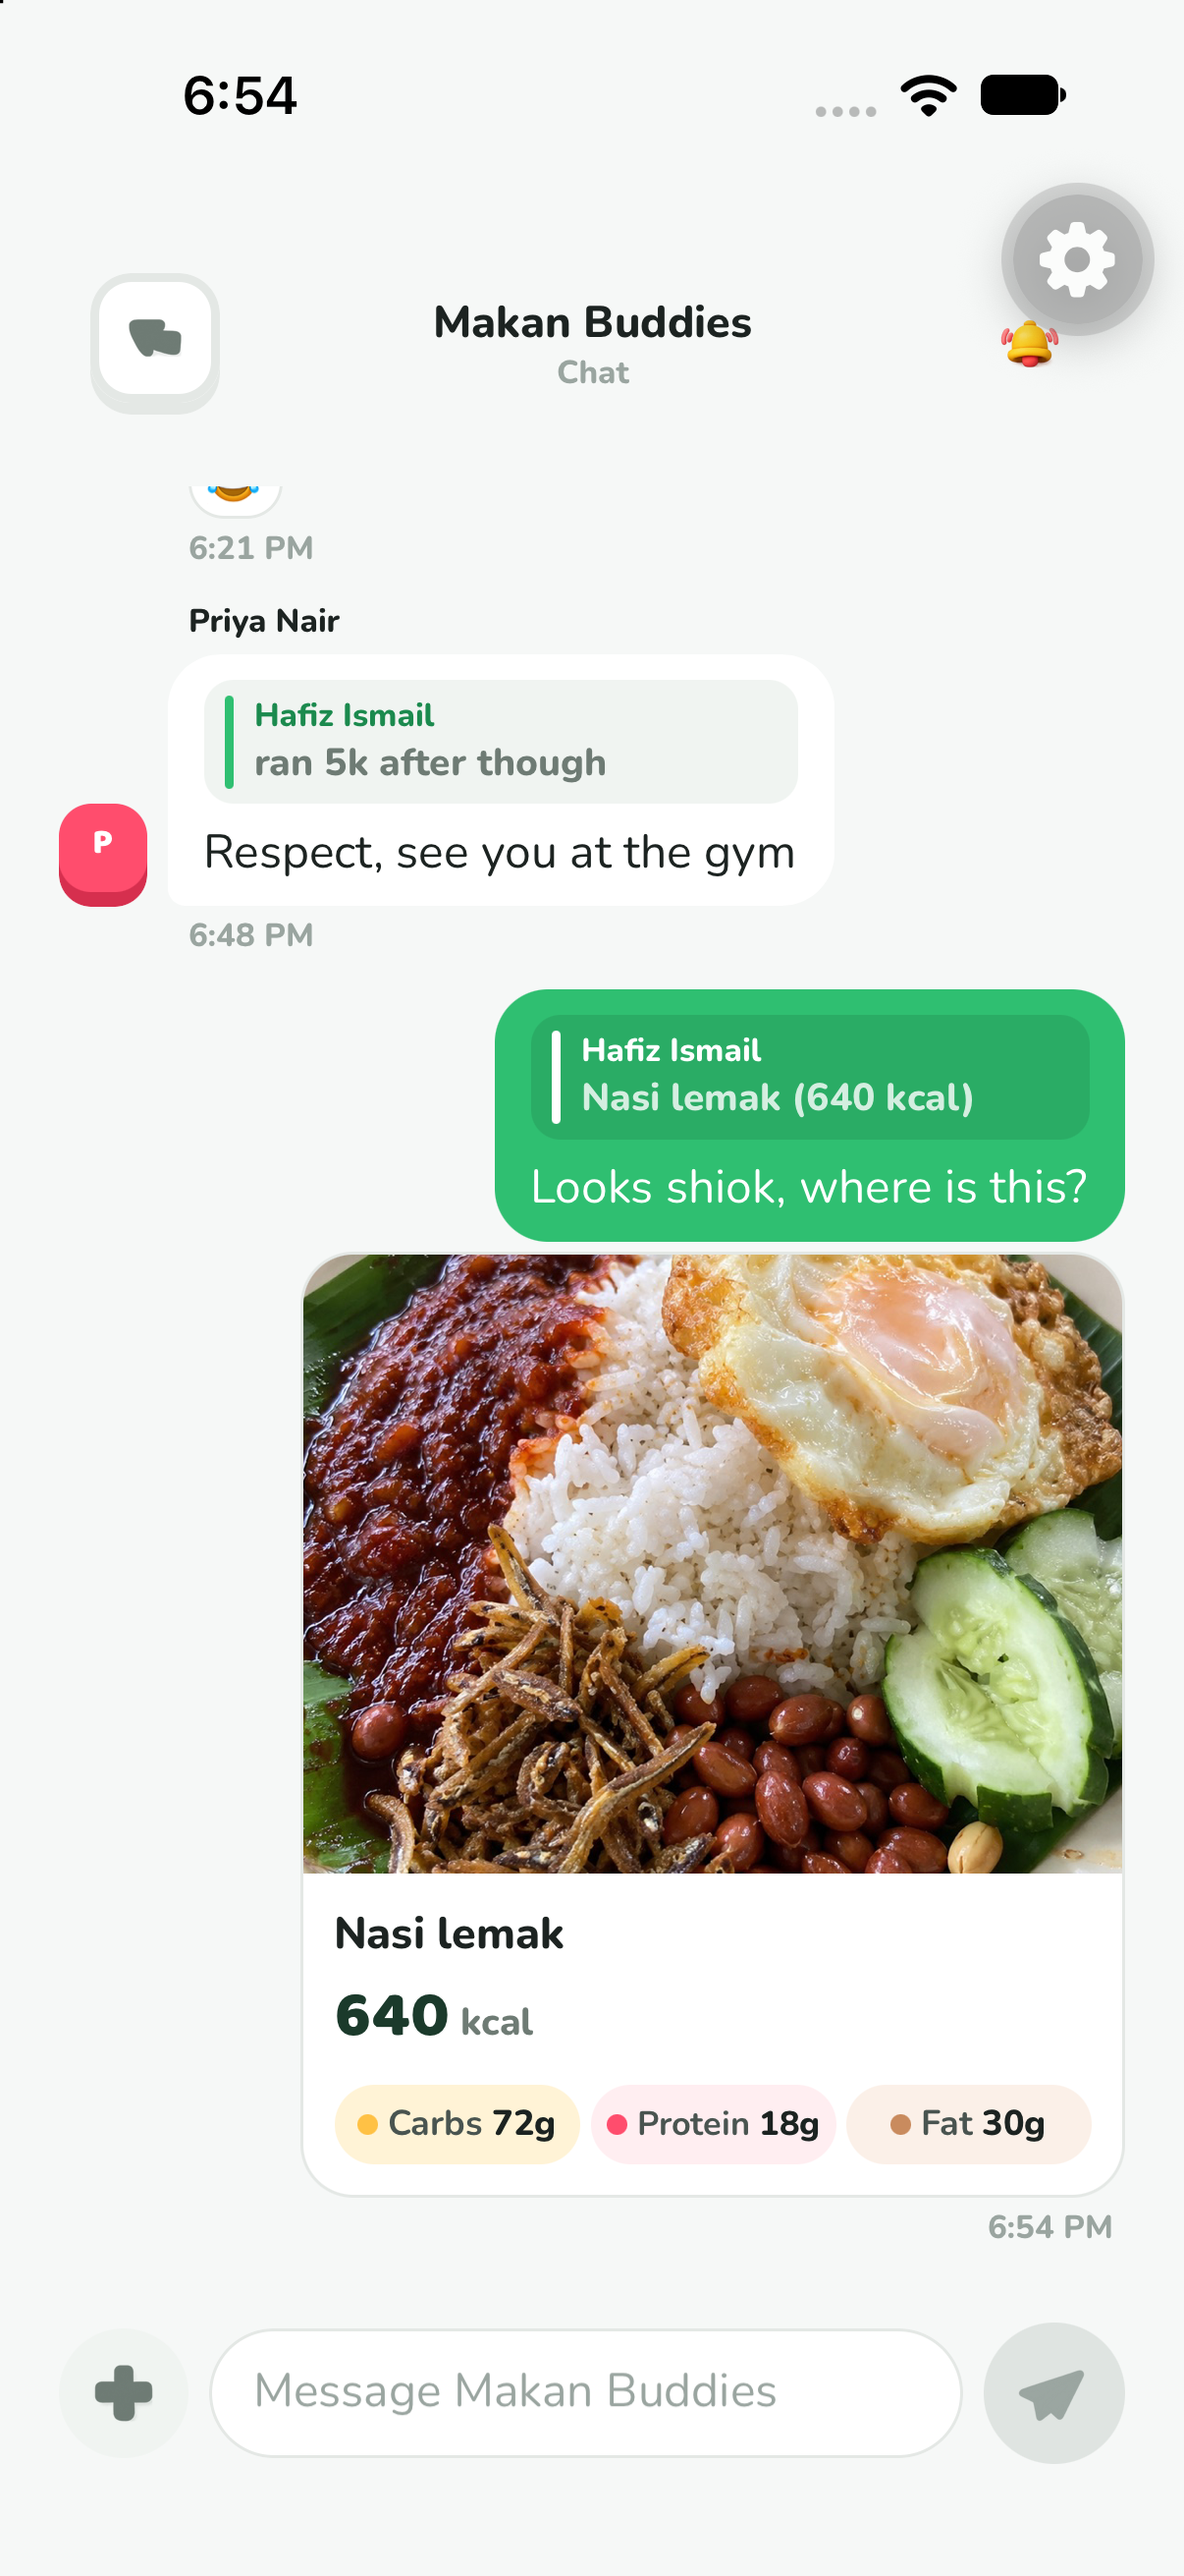
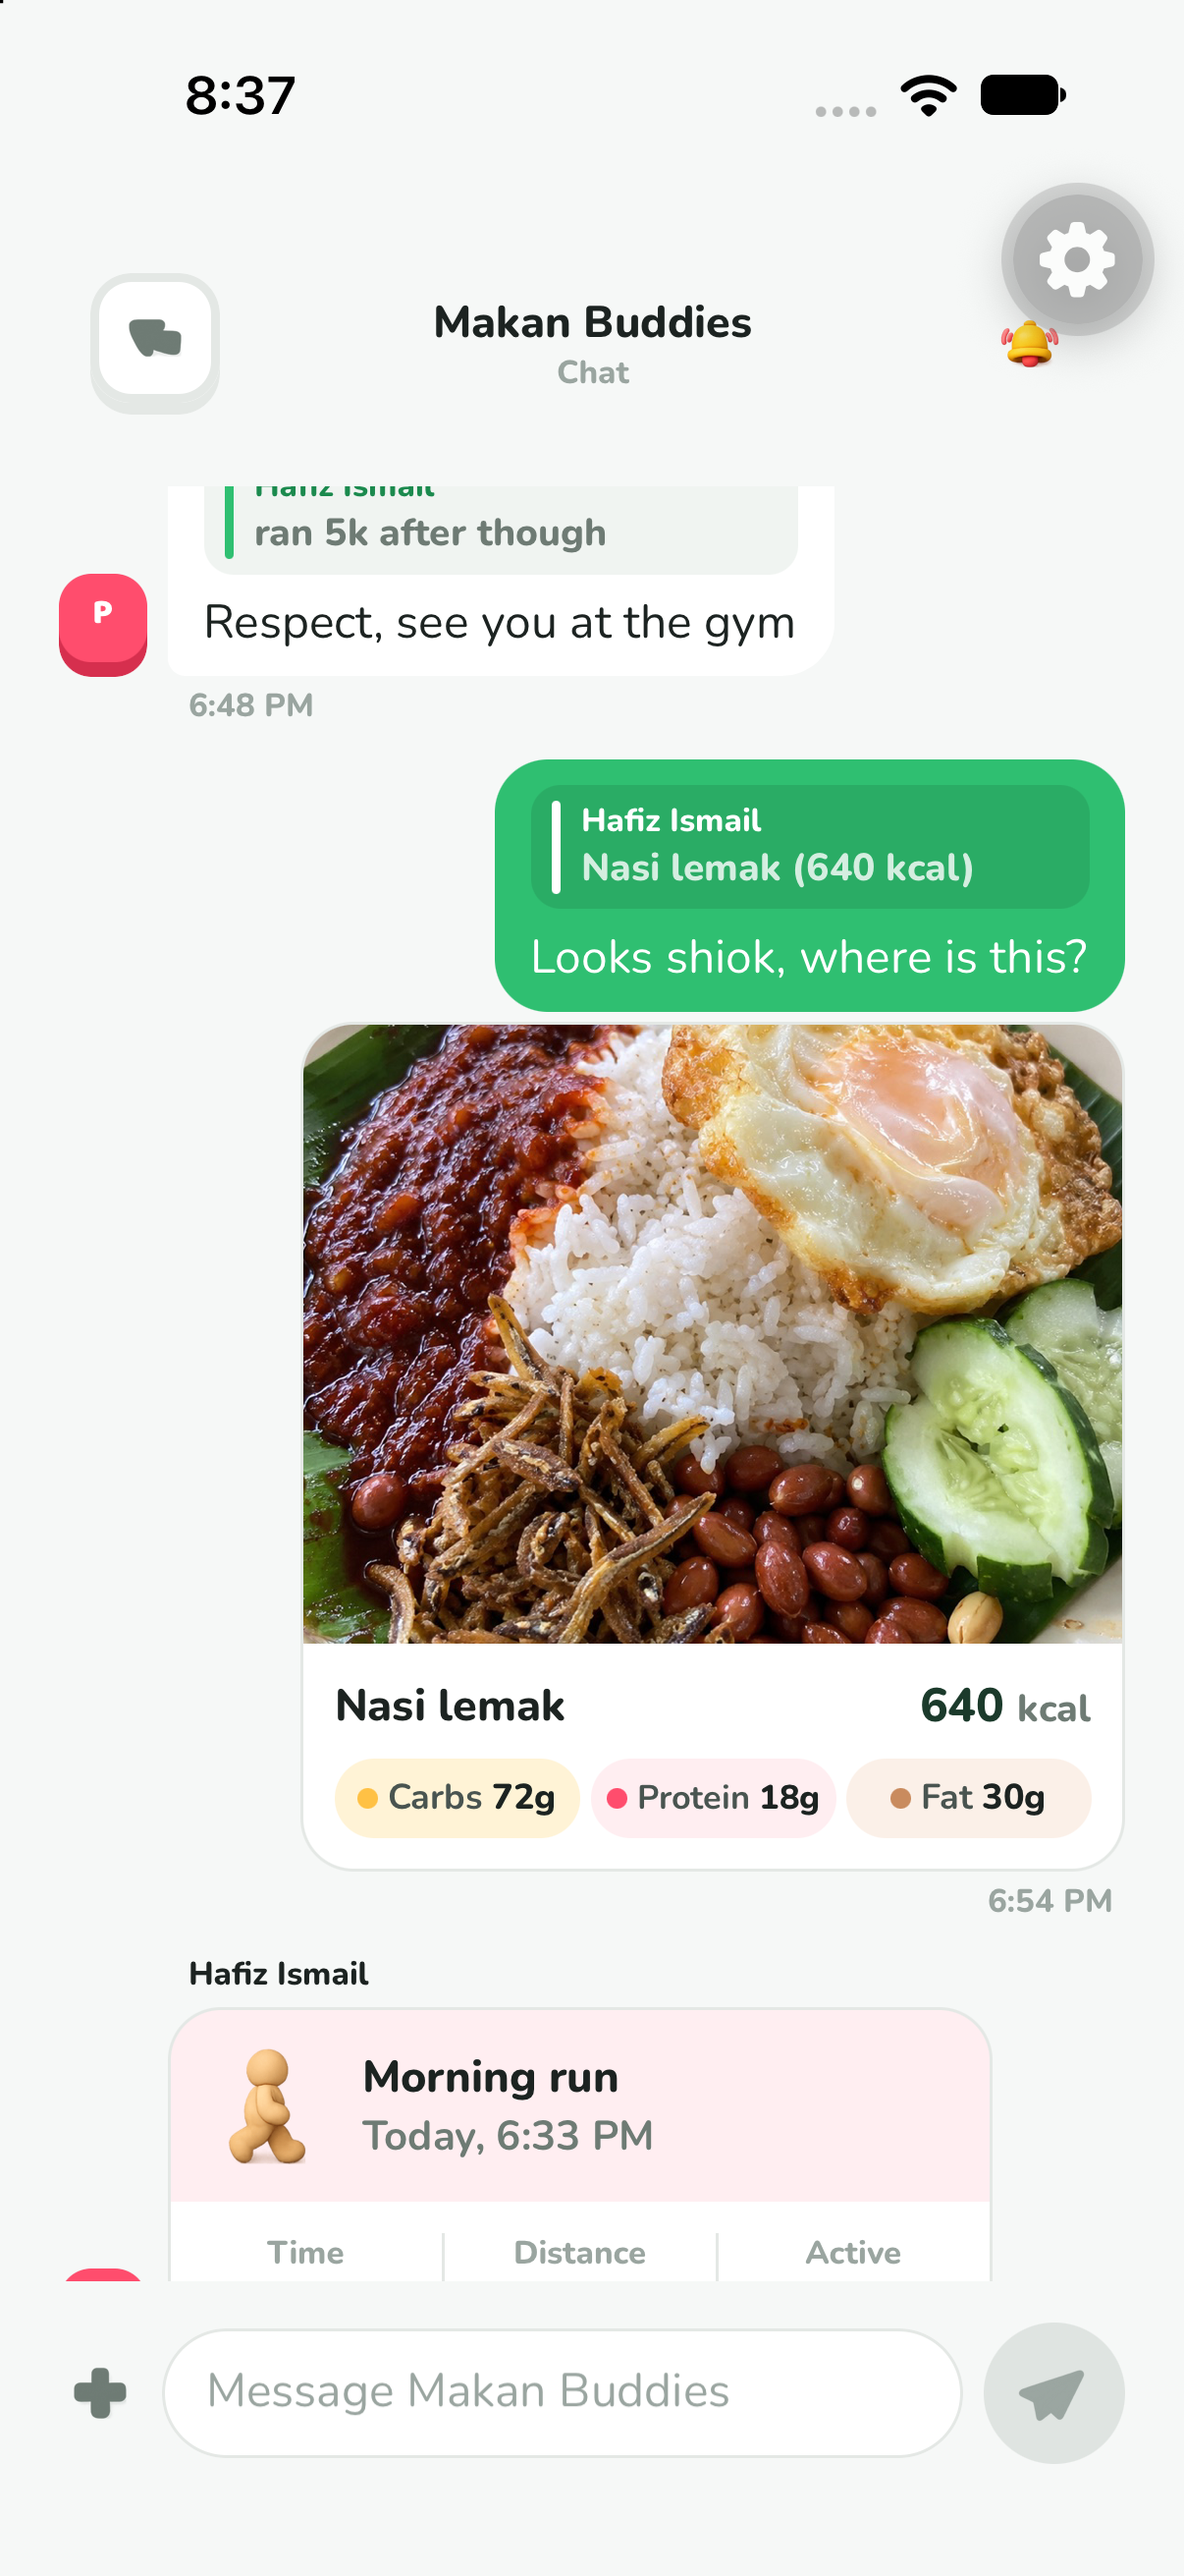
Put a chat food card's calories beside its name, and make the + a plain button
The card under the photo is two lines now: the name with its calories on the
right, then the macros. The + beside the message field drops its circle, as
WhatsApp's does, and keeps a full-size tap area.

diff --git a/apps/mobile/src/features/groups/Chat.tsx b/apps/mobile/src/features/groups/Chat.tsx
@@ -544,16 +544,18 @@ const Composer = memo(function Composer({
         </View>
       ) : null}
       <View className="flex-row items-end gap-2">
+        {/* A plain +, as WhatsApp draws it: no circle, so the field gets the
+            width. Narrow to look at, a full 44pt to a thumb. */}
         <Tappable
-          className="h-[44px] w-[44px] items-center justify-center rounded-full bg-surface-alt"
+          className="h-[44px] w-[28px] items-center justify-center"
           // Level with the send button's middle, which is taller.
           style={{ marginBottom: (SEND - 44) / 2 }}
-          hitSlop={6}
+          hitSlop={{ top: 6, bottom: 6, left: 10, right: 4 }}
           onPress={onAttach}
           accessibilityRole="button"
           accessibilityLabel={t('shareFood')}
         >
-          <Icon set="ui" name="plus" size={22} tintColor={colors.muted} />
+          <Icon set="ui" name="plus" size={20} tintColor={colors.muted} />
         </Tappable>
         <View
           className="min-h-[44px] min-w-0 flex-1 justify-center rounded-[22px] border border-line bg-surface px-4"
@@ -922,15 +924,17 @@ function FoodCard({ food, ownerId }: { food: ChatFood; ownerId: string }) {
       >
         <EntryPicture entry={food} ownerId={ownerId} iconSize={96} />
       </View>
-      <View className="gap-1.5 p-3">
-        <Text variant="label" numberOfLines={2}>
-          {food.name}
-        </Text>
-        <View className="flex-row items-baseline gap-1">
-          <Text className="font-display text-[22px] leading-[28px] text-heading">
-            {Math.round(food.kcal).toLocaleString()}
+      {/* Two lines under the photo: the name with its calories on the right,
+          then the macros. */}
+      <View className="gap-2 p-3">
+        <View className="flex-row items-baseline gap-2">
+          <Text variant="label" numberOfLines={1} className="min-w-0 flex-1">
+            {food.name}
           </Text>
-          <Text variant="caption">{t('common:unit.kcal')}</Text>
+          <Text className="font-body-black text-[16px] leading-[21px] text-heading">
+            {Math.round(food.kcal).toLocaleString()}{' '}
+            <Text variant="caption">{t('common:unit.kcal')}</Text>
+          </Text>
         </View>
         <MacroChips food={food} compact />
       </View>
